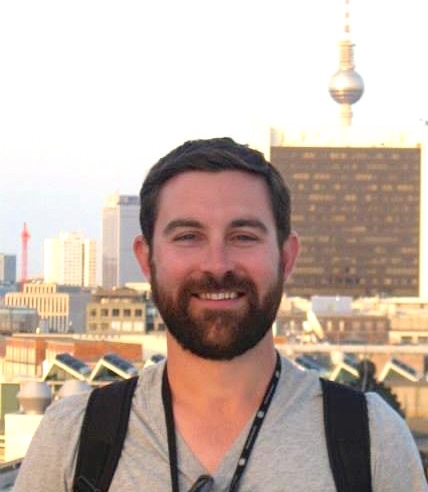
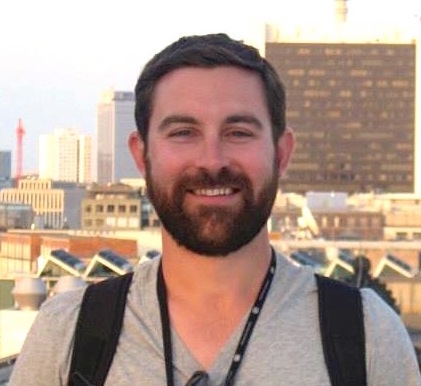
changed site font

diff --git a/style.css b/style.css
@@ -3,6 +3,7 @@ body {
     margin: 0px;
     padding: 0px;
     font-family: 'Lucida Sans Unicode', sans-serif;
+    font-weight: lighter;
   }
 
 hr {
@@ -60,8 +61,9 @@ div.footer {
   width: 100%;
   color: #ffffff;
   height: 35px;
-  text-align: center;
+  text-align: left;
   padding-top: 15px;
+  padding-left: 60px;
   /* Adds the transparent background */
   background-color: rgba(1, 1, 1, 0.8);
   color: rgba(1, 1, 1, 0.8);
@@ -69,7 +71,7 @@ div.footer {
 
 #navigation a {
   font-size: 18px;
-  padding-left: 20px;
+  padding-left: 0px;
   padding-right: 20px;
   color: white;
   text-decoration: none;

diff --git a/index.html b/index.html
@@ -21,7 +21,7 @@
 
 		<table width="550" border="0">
 			  <tr>
-			    <td width="100"><img style="height: 225px;" alt="" src="km.jpg" hspace="20"></td>
+			    <td width="100"><img style="height: 180px;" alt="" src="km.jpg" hspace="20"></td>
 			    <td width="400">
 			    <h2><strong>Kyle MacDonald</strong></h2>
 			
